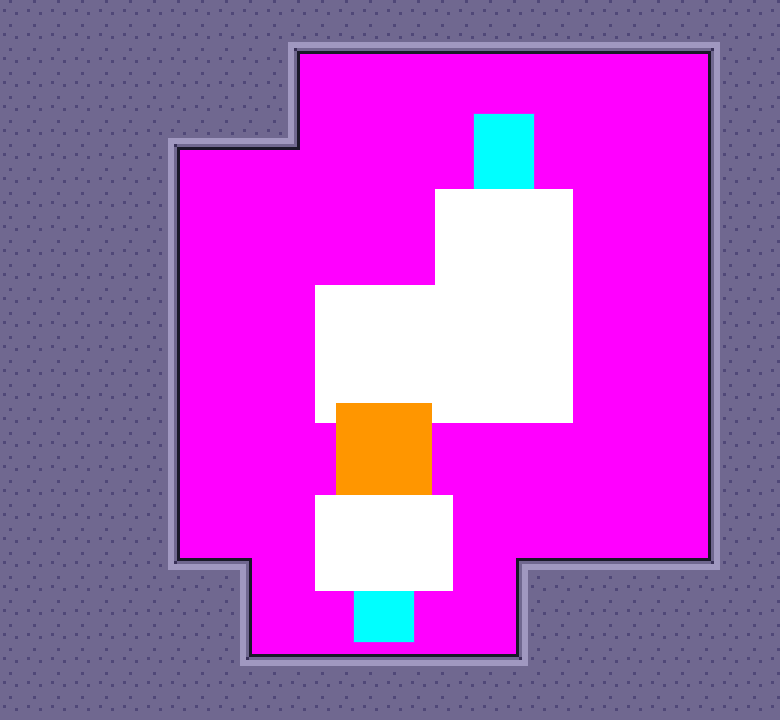
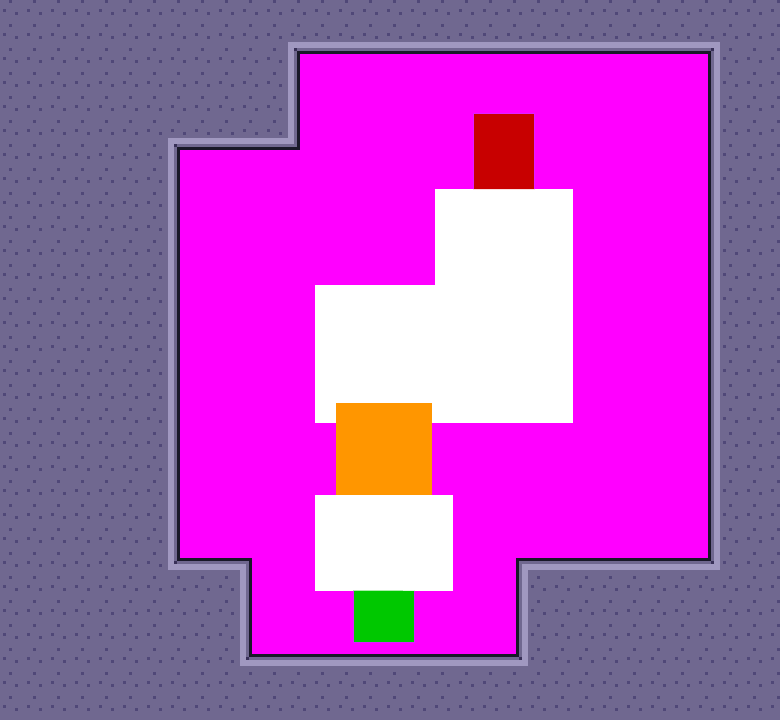
feat: implement room move api done(no leak, release check)

Changed region(s): [[0.5846, 0.1528, 0.7077, 0.275], [0.4308, 0.7944, 0.5538, 0.9167]]

diff --git a/LinkToThePast/LinkToThePastContents/Room.cpp b/LinkToThePast/LinkToThePastContents/Room.cpp
@@ -48,7 +48,7 @@ void ARoom::Tick(float DeltaTime)
 	if (true == UEngineInput::GetInst().IsDown('Y'))
 	{
 		ColSpriteRenderer->SetActiveSwitch();
-	}
+	}	
 }
 
 void ARoom::SetRoomSprite(std::string_view SpriteName, ERenderOrder RenderOrder, FVector2D SpritePos, float SpriteScale /* = 3.0f */)
@@ -80,4 +80,11 @@ void ARoom::SetPlayer(APlayer* PlayerCharacter)
 	if (PlayerCharacter == nullptr) return;
 
 	this->PlayerCharacter = PlayerCharacter;
+}
+
+void ARoom::PlayerLinkCheck()
+{
+	// TODO: 
+	std::string SpriteName = ColSpriteRenderer->GetCurSpriteName();
+	UEngineWinImage* WinImage = UImageManager::GetInst().FindImage(SpriteName);
 }

diff --git a/LinkToThePast/EngineBase/EngineMath.cpp b/LinkToThePast/EngineBase/EngineMath.cpp
@@ -20,7 +20,20 @@ const UColor UColor::CYAN = { 0, 255, 255, 0 };
 const UColor UColor::ORANGE = { 255, 150, 0, 0 };
 const UColor UColor::YELLOW = { 255, 255, 0, 0 };
 
+const UColor UColor::ROOM_UP = { 200, 0, 0, 0 };
+const UColor UColor::ROOM_DOWN = { 0, 200, 0, 0 };
+
 FIntPoint FVector2D::ConvertToPoint() const
 {
 	return { iX(), iY() };
+}
+
+FVector2D FVector2D::LerpClimp(FVector2D _StartLocation, FVector2D _TargetLocation, float _t)
+{
+	if (1.0F <= _t)
+	{
+		_t = 1.0F;
+	}
+
+	return FVector2D(_StartLocation.X + _t * (_TargetLocation.X - _StartLocation.X), _StartLocation.Y + _t * (_TargetLocation.Y - _StartLocation.Y));
 }

diff --git a/LinkToThePast/EngineBase/EngineMath.h b/LinkToThePast/EngineBase/EngineMath.h
@@ -153,6 +153,8 @@ public:
 		return *this;
 	}
 
+	static FVector2D LerpClimp(FVector2D _StartLocation, FVector2D _TargetLocation, float _t);
+
 	std::string ToString()
 	{
 		std::string Stream;
@@ -260,6 +262,10 @@ public:
 	static const UColor BLUE;
 	static const UColor YELLOW;
 	static const UColor ORANGE;
+
+
+	static const UColor ROOM_UP;
+	static const UColor ROOM_DOWN;
 
 	union
 	{
